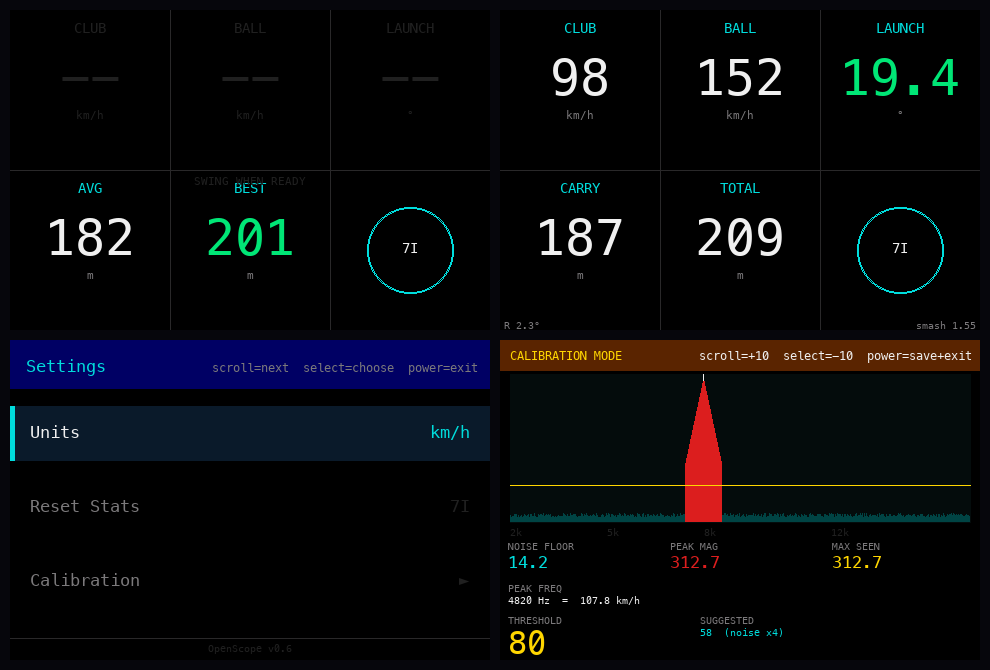
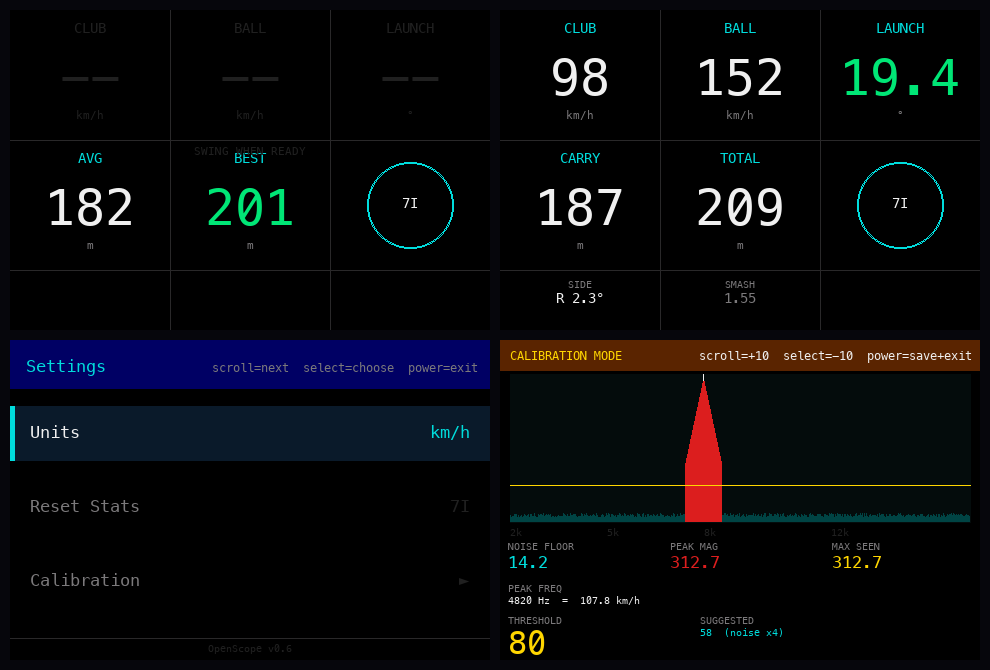
Add mini-row grid tiles for SIDE and SMASH on result screen
- ROW_H shrunk from 160 → 130, new MINI_ROW_H = 60 (fits 320px total)
- draw_mini_tile() helper for the new bottom row
- ui_result: SIDE angle and SMASH each in their own grid tile (col 0 & 1)
- Mockup updated to match; regenerated docs/openscope-ui.png
- README: hero.png at top, mockup at bottom

diff --git a/tools/generate_mockup.py b/tools/generate_mockup.py
@@ -30,11 +30,12 @@ def parse_defines(path):
             d[m.group(1)] = int(v, 16) if v.startswith("0x") else int(v)
     return d
 
-cfg   = parse_defines(ROOT / "src" / "config.h")
-SCR_W = cfg["SCR_W"]       # 480
-SCR_H = cfg["SCR_H"]       # 320
-COL_W = SCR_W // 3         # 160
-ROW_H = SCR_H // 2         # 160
+cfg        = parse_defines(ROOT / "src" / "config.h")
+SCR_W      = cfg["SCR_W"]        # 480
+SCR_H      = cfg["SCR_H"]        # 320
+COL_W      = SCR_W // 3          # 160
+ROW_H      = cfg["ROW_H"]        # 130
+MINI_ROW_H = cfg["MINI_ROW_H"]   # 60
 
 # ─── Color helpers ────────────────────────────────────────────────────────────
 
@@ -112,9 +113,10 @@ def br_text(draw, text, x, y, font, color):
     draw.text((x - w, y - h), text, font=font, fill=color)
 
 def grid_lines(draw):
-    draw.line([(COL_W, 0), (COL_W, SCR_H)],     fill=DIV, width=1)
-    draw.line([(COL_W*2, 0), (COL_W*2, SCR_H)], fill=DIV, width=1)
-    draw.line([(0, ROW_H), (SCR_W, ROW_H)],      fill=DIV, width=1)
+    draw.line([(COL_W, 0), (COL_W, SCR_H)],       fill=DIV, width=1)
+    draw.line([(COL_W*2, 0), (COL_W*2, SCR_H)],   fill=DIV, width=1)
+    draw.line([(0, ROW_H), (SCR_W, ROW_H)],        fill=DIV, width=1)
+    draw.line([(0, ROW_H*2), (SCR_W, ROW_H*2)],    fill=DIV, width=1)
 
 def draw_tile(draw, col, row, label, number, unit, num_color, dimmed=False):
     cx = col * COL_W + COL_W // 2
@@ -125,6 +127,14 @@ def draw_tile(draw, col, row, label, number, unit, num_color, dimmed=False):
     tc(draw, label,  cx, y0 + 10, F_LABEL, lc)
     tc(draw, number, cx, y0 + 38, F_NUM,   nc)
     tc(draw, unit,   cx, y0 + 98, F_UNIT,  uc)
+
+def draw_mini_tile(draw, col, label, value, val_color, dimmed=False):
+    cx = col * COL_W + COL_W // 2
+    y0 = ROW_H * 2
+    lc = DIM if dimmed else UNIT_C
+    vc = DIM if dimmed else val_color
+    tc(draw, label, cx, y0 + 8,  F_SMALL, lc)
+    tc(draw, value, cx, y0 + 20, F_LABEL, vc)
 
 def draw_club_tile(draw, col, row, abbr):
     cx = col * COL_W + COL_W // 2
@@ -169,13 +179,10 @@ def screen_result(side_deg=2.3, side_dir="R"):
     draw_tile(draw, 1, 1, "TOTAL",  "209",  "m",    WHITE)
     draw_club_tile(draw, 2, 1, "7I")
 
-    # Bottom bar: side angle (left) + smash factor (right)
-    if abs(side_deg) < 0.5:
-        side_str = "STRAIGHT"
-    else:
-        side_str = f"{side_dir} {abs(side_deg):.1f}°"
-    tl(draw,     side_str,    4,          SCR_H - 3 - 8, F_SMALL, UNIT_C)
-    br_text(draw, "smash 1.55", SCR_W - 4, SCR_H - 3,     F_SMALL, UNIT_C)
+    # Mini row — side angle (col 0) + smash (col 1)
+    side_str = "STRAIGHT" if abs(side_deg) < 0.5 else f"{side_dir} {abs(side_deg):.1f}°"
+    draw_mini_tile(draw, 0, "SIDE",  side_str, WHITE)
+    draw_mini_tile(draw, 1, "SMASH", "1.55",   UNIT_C)
     return img
 
 # ─── Screen 3 — Calibration ───────────────────────────────────────────────────

diff --git a/src/display.cpp b/src/display.cpp
@@ -40,7 +40,8 @@ static void draw_grid_lines()
 {
     tft.drawFastVLine(COL_W,     0, SCR_H, COL_DIV);
     tft.drawFastVLine(COL_W * 2, 0, SCR_H, COL_DIV);
-    tft.drawFastHLine(0, ROW_H,  SCR_W,    COL_DIV);
+    tft.drawFastHLine(0, ROW_H,     SCR_W, COL_DIV);
+    tft.drawFastHLine(0, ROW_H * 2, SCR_W, COL_DIV);  // mini row divider
 }
 
 static void draw_tile(int col, int row,
@@ -60,6 +61,20 @@ static void draw_tile(int col, int row,
     tft.drawString(number, cx, y0 + 62);
     tft.setTextFont(2); tft.setTextColor(uc, TFT_BLACK);
     tft.drawString(unit, cx, y0 + 118);
+}
+
+static void draw_mini_tile(int col, const char* label, const char* value,
+                           uint16_t val_color, bool dimmed = false)
+{
+    const int cx = col * COL_W + COL_W / 2;
+    const int y0 = ROW_H * 2;
+    uint16_t lc = dimmed ? COL_DIM : COL_UNIT;
+    uint16_t vc = dimmed ? COL_DIM : val_color;
+    tft.setTextDatum(TC_DATUM);
+    tft.setTextFont(1); tft.setTextColor(lc, TFT_BLACK);
+    tft.drawString(label, cx, y0 + 8);
+    tft.setTextFont(4); tft.setTextColor(vc, TFT_BLACK);
+    tft.drawString(value, cx, y0 + 20);
 }
 
 static void draw_club_tile(int col, int row, int club_idx)
@@ -144,25 +159,21 @@ void ui_result(float ball_kmh, float club_kmh,
 
     draw_club_tile(2, 1, club_idx);
 
-    // ── Bottom bar: side angle (left) + smash factor (right) ─────────────────
-    tft.setTextFont(1);
-    tft.setTextColor(COL_UNIT, TFT_BLACK);
-
-    // Side angle — always shown; "STRAIGHT" when < 0.5°
+    // ── Mini row: side angle (col 0) + smash (col 1), col 2 empty ───────────
     char side_buf[16];
     if (fabsf(side_deg) >= 0.5f)
         snprintf(side_buf, sizeof(side_buf), "%s %.1f\xb0",
                  side_deg >= 0.0f ? "R" : "L", fabsf(side_deg));
     else
         snprintf(side_buf, sizeof(side_buf), "STRAIGHT");
-    tft.setTextDatum(BL_DATUM);
-    tft.drawString(side_buf, 4, SCR_H - 2);
+    draw_mini_tile(0, "SIDE", side_buf, TFT_WHITE);
 
     if (club_kmh > 0.0f) {
-        char sm[16];
-        snprintf(sm, sizeof(sm), "smash %.2f", ball_kmh / club_kmh);
-        tft.setTextDatum(BR_DATUM);
-        tft.drawString(sm, SCR_W - 4, SCR_H - 2);
+        char sm[8];
+        snprintf(sm, sizeof(sm), "%.2f", ball_kmh / club_kmh);
+        draw_mini_tile(1, "SMASH", sm, COL_UNIT);
+    } else {
+        draw_mini_tile(1, "SMASH", "--", COL_UNIT, true);
     }
 }
 

diff --git a/src/config.h b/src/config.h
@@ -48,9 +48,10 @@
 
 #define TFT_ROTATION  1         // landscape, USB connector on right
 #define SCR_W  480
-#define SCR_H  320
-#define COL_W  (SCR_W / 3)
-#define ROW_H  (SCR_H / 2)
+#define SCR_H      320
+#define COL_W      (SCR_W / 3)
+#define ROW_H      130   // main tile row height (2×130 + 60 = 320)
+#define MINI_ROW_H  60   // mini row at bottom for side angle + smash
 
 // RGB565 colour palette
 #define COL_DIV      0x2945   // dark teal — grid divider lines

diff --git a/README.md b/README.md
@@ -1,4 +1,4 @@
-![OpenScope UI](docs/openscope-ui.png)
+![OpenScope](docs/hero.png)
 
 # OpenScope — DIY Golf Launch Monitor
 
@@ -234,6 +234,10 @@ is then solved directly using the three-radar 3D formula — no binary
 search needed. Ball speed `k` is fully corrected for both angles, and
 carry is scaled using the trajectory shape (`sin(2α)`) relative to each
 club's typical launch angle.
+
+## UI Mockup
+
+![OpenScope UI — all four screens](docs/openscope-ui.png)
 
 ## License
 